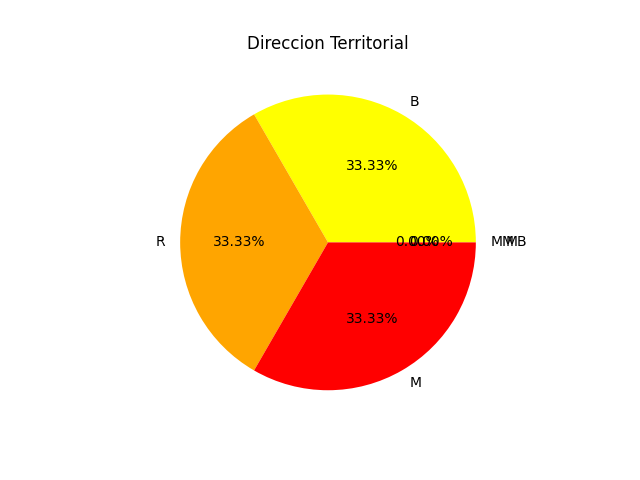
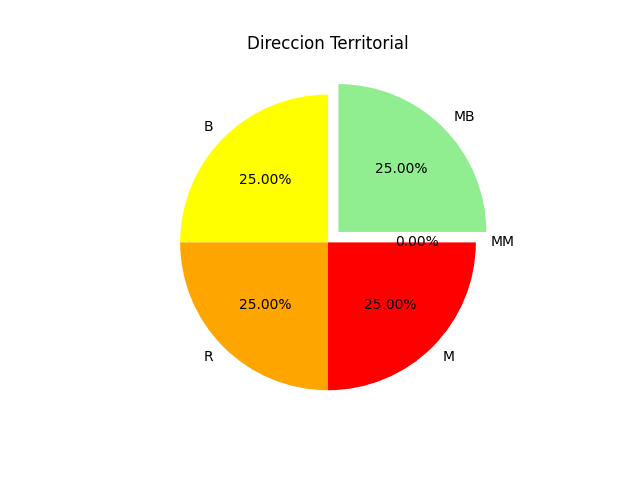
graficos de T

diff --git a/encuesta/templates/tel.html b/encuesta/templates/tel.html
@@ -1,4 +1,5 @@
 {% extends 'base.html' %}
+{% load static %}
 {% block content %}
 
 
@@ -20,6 +21,7 @@
     <h3>Porcentaje: {{porcMM}}%</h3>
 
     <p><hr></p>
+    <img src="{% static 'encuesta/GT.png' %}" alt="">
     <a href="{% url 'Resultados' %}">
         <input type="button" value="Atras" class="btn btn-lg btn-secundary fw-bold border-white bg-white">
     </a>

diff --git a/encuesta/views.py b/encuesta/views.py
@@ -190,6 +190,13 @@ def ResumenT(request):
     #porciento MM
     porcMM=(TcantMM*100)/total
 
+    calif=['MB','B','R','M','MM']
+    cant=[TcantMB, TcantB, TcantR, TcantM, TcantMM]
+    colores = ['lightgreen','yellow','#FFA500','red','sienna']
+    desface=(0.1,0,0,0,0)
+    plt.pie(cant, labels=calif, colors=colores,autopct='%1.2f%%', explode=desface)
+    plt.title('Direccion Territorial')
+
     data={
 
             "TcantMB":TcantMB,
@@ -202,6 +209,8 @@ def ResumenT(request):
             "porcR": porcR,
             "porcM": porcM,
             "porcMM": porcMM,
+            "show": plt.savefig('encuesta/static/encuesta/GT.png'),
+            "del": plt.close()
             }
 
     return render(request, 'tel.html', data)   
